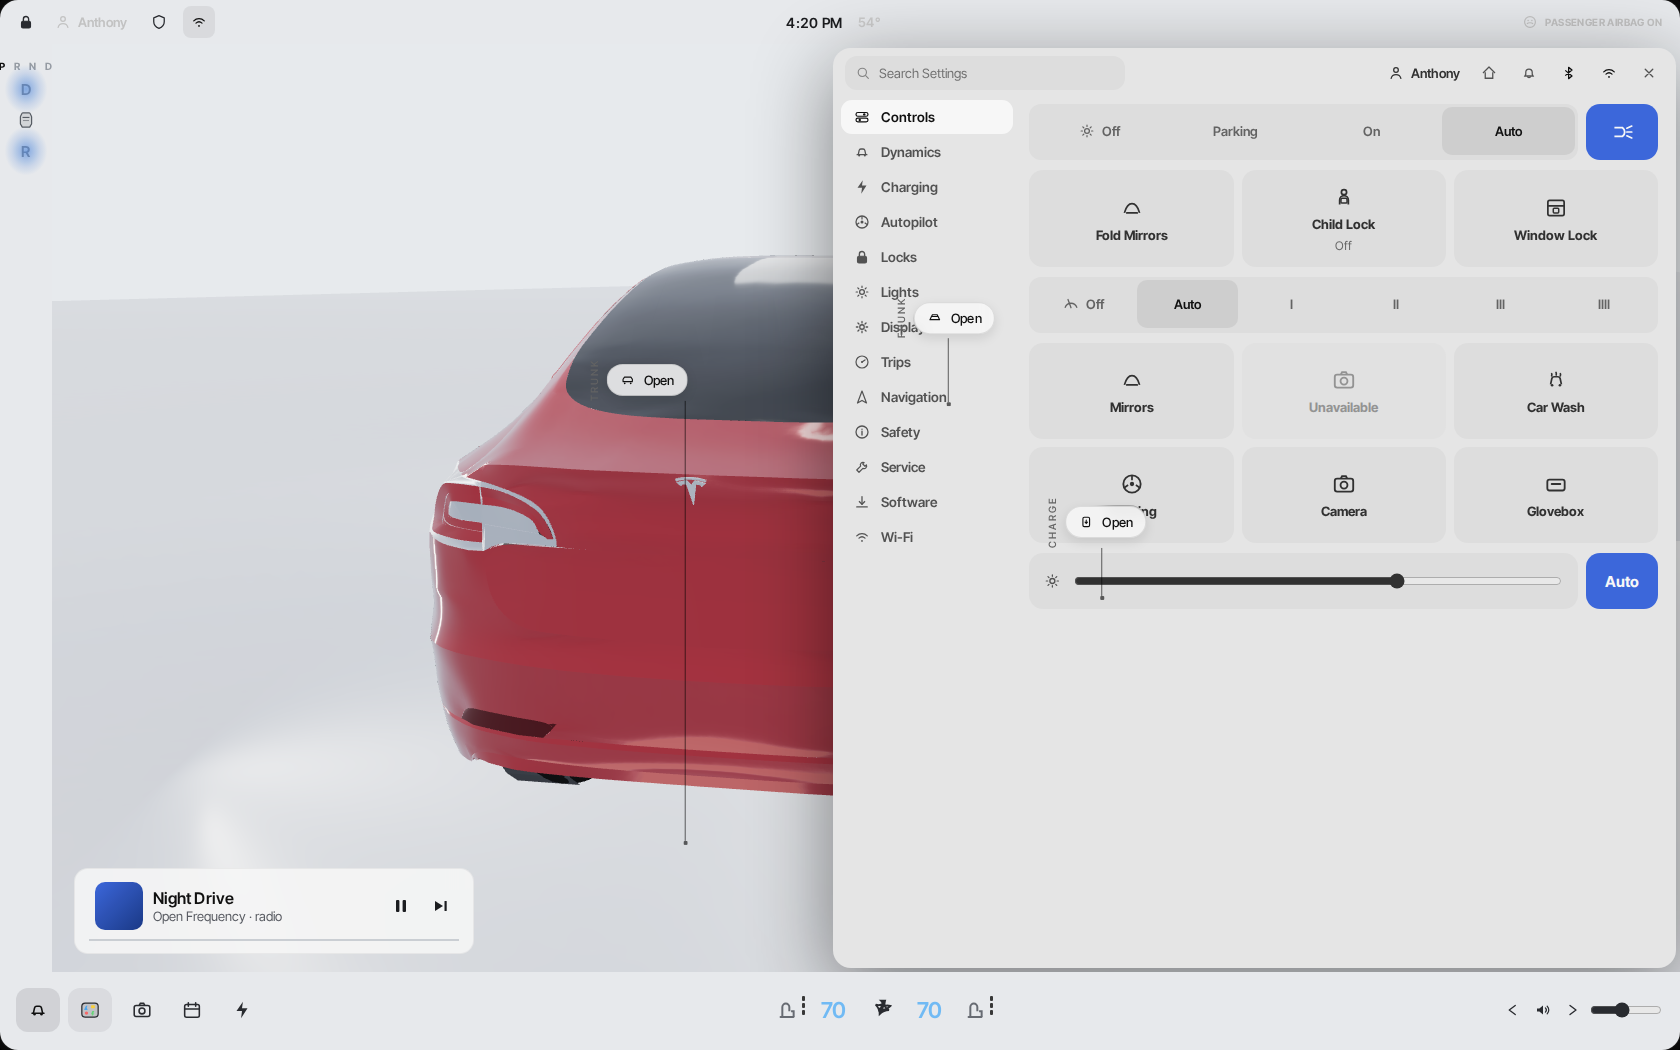
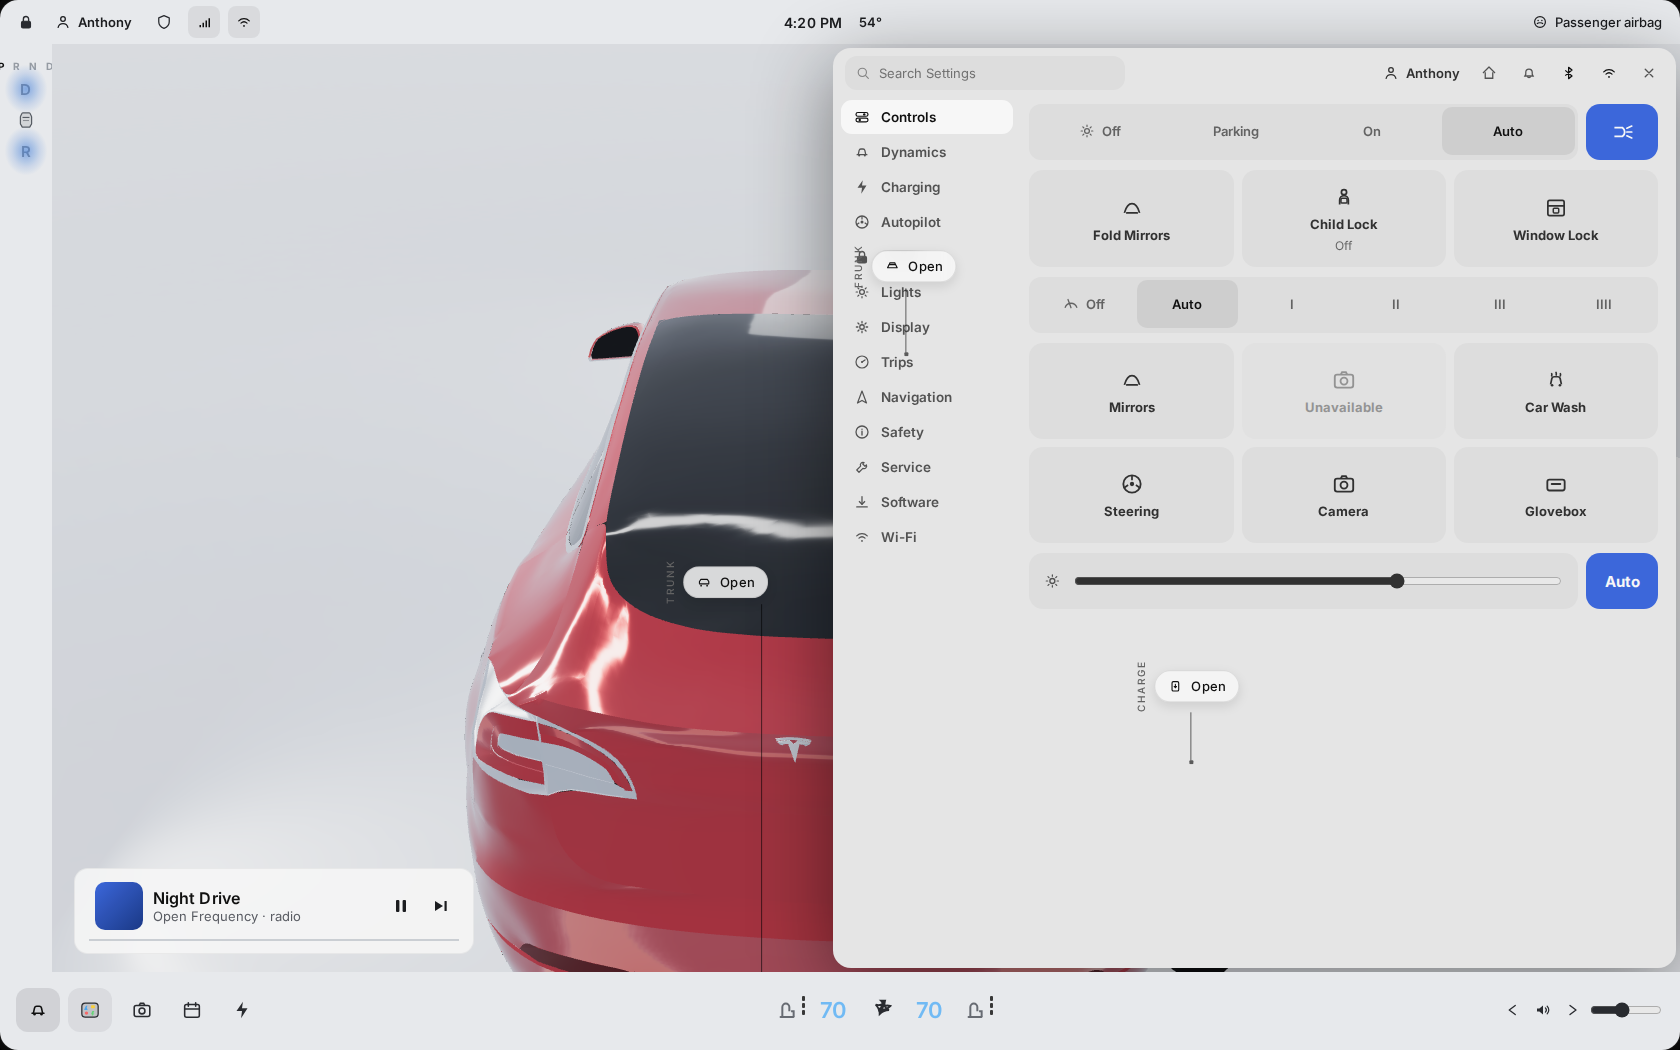
Match the on-screen words and cameras to the public stills.
The speed line says mph, the player shows elapsed and remaining time, the status bar includes cellular, and the chase and park cameras sit where those stills do.

diff --git a/src/styles/app.css b/src/styles/app.css
@@ -22,7 +22,7 @@
   --dock-h: 68px;
   --prnd-w: 48px;
   --radius: 16px;
-  --font: "Inter Tight", Inter, "Segoe UI", system-ui, sans-serif;
+  --font: Inter, "Segoe UI", system-ui, sans-serif;
   --font-ui: var(--font);
   --viz-ratio: 0.42;
   --fs-status: 13px;
@@ -205,6 +205,13 @@ button {
 
 .bezel.parked .status-left {
   gap: 8px;
+}
+
+.bezel.parked .status-profile,
+.bezel.parked .status-time,
+.bezel.parked .status-weather,
+.bezel.parked .status-airbag {
+  color: #1c1d20;
 }
 
 .bezel.parked .drive-strip {
@@ -447,11 +454,10 @@ button {
   display: flex;
   align-items: center;
   gap: 6px;
-  color: #c8c8c8;
-  font-size: 10px;
-  font-weight: 700;
-  letter-spacing: 0.04em;
-  text-transform: uppercase;
+  color: #d8d8d8;
+  font-size: 13px;
+  font-weight: 500;
+  letter-spacing: 0;
 }
 
 .status-airbag svg {
@@ -1675,17 +1681,17 @@ button {
 
 .hud-cluster {
   position: absolute;
-  left: 18px;
-  top: 12%;
+  left: 14px;
+  top: 18%;
   display: flex;
   align-items: center;
-  gap: 8px;
+  gap: 10px;
 }
 
 .power-meter {
   position: relative;
   width: 3px;
-  height: 108px;
+  height: 128px;
   border-radius: 99px;
   background: rgba(255, 255, 255, 0.22);
   overflow: hidden;
@@ -1726,20 +1732,20 @@ button {
 }
 
 .hud-speed .mph {
-  font-size: 92px;
+  font-size: 118px;
   font-weight: 500;
-  line-height: 0.8;
-  letter-spacing: -0.055em;
+  line-height: 0.78;
+  letter-spacing: -0.04em;
   font-variant-numeric: tabular-nums;
-  text-shadow: 0 2px 16px rgba(0, 0, 0, 0.35);
+  text-shadow: 0 2px 16px rgba(0, 0, 0, 0.28);
 }
 
 .hud-speed .label {
-  margin-top: 6px;
-  font-size: 15px;
-  color: #8eb6ff;
-  font-weight: 650;
-  letter-spacing: -0.01em;
+  margin-top: 2px;
+  font-size: 20px;
+  color: #f4f4f4;
+  font-weight: 500;
+  letter-spacing: 0;
 }
 
 .hud-speed .muted {
@@ -1967,11 +1973,24 @@ button {
   color: #8eb6ff;
 }
 
+.drive-media-times {
+  display: grid;
+  grid-template-columns: 36px 1fr 44px;
+  align-items: center;
+  gap: 10px;
+  margin-top: 2px;
+  color: #f2f2f2;
+  font-size: 13px;
+  font-weight: 500;
+  font-variant-numeric: tabular-nums;
+}
+
+.drive-media-times span:last-child {
+  text-align: right;
+}
+
 .drive-media-progress {
-  position: absolute;
-  left: 18px;
-  right: 18px;
-  bottom: 10px;
+  position: relative;
   height: 6px;
   border-radius: 99px;
   background: rgba(255, 255, 255, 0.28);

diff --git a/src/chrome/DriveOverlay.tsx b/src/chrome/DriveOverlay.tsx
@@ -15,6 +15,15 @@ import {
 } from "./Icons";
 import type { Maneuver } from "../state/types";
 
+const TRACK_SECONDS = 214;
+
+function formatClock(seconds: number): string {
+  const s = Math.max(0, Math.round(seconds));
+  const m = Math.floor(s / 60);
+  const r = s % 60;
+  return `${m}:${r.toString().padStart(2, "0")}`;
+}
+
 function TurnGlyph({ m }: { m: Maneuver }) {
   if (m.type === "arrive") return <IconArrive width={22} height={22} />;
   const mod = m.modifier ?? "";
@@ -118,8 +127,12 @@ export function DriveOverlay({ expanded }: { expanded: boolean }) {
               <IconRepeat width={20} height={20} />
             </button>
           </div>
-          <div className="drive-media-progress" aria-hidden="true">
-            <i style={{ width: `${Math.round(media.progress * 100)}%` }} />
+          <div className="drive-media-times">
+            <span>{formatClock(media.progress * TRACK_SECONDS)}</span>
+            <div className="drive-media-progress" aria-hidden="true">
+              <i style={{ width: `${Math.round(media.progress * 100)}%` }} />
+            </div>
+            <span>−{formatClock(TRACK_SECONDS - media.progress * TRACK_SECONDS)}</span>
           </div>
         </div>
       )}

diff --git a/src/chrome/StatusBar.tsx b/src/chrome/StatusBar.tsx
@@ -1,6 +1,6 @@
 import { useEffect, useState } from "react";
 import { useVehicle } from "../state/store";
-import { IconAirbag, IconLock, IconPerson, IconShield, IconUnlock, IconWifi } from "./Icons";
+import { IconAirbag, IconCell, IconLock, IconPerson, IconShield, IconUnlock, IconWifi } from "./Icons";
 
 function useClock(format24: boolean): string {
   const [now, setNow] = useState(() => new Date());
@@ -63,6 +63,13 @@ export function StatusBar() {
           <IconShield />
         </button>
         <button
+          className={`status-icon ${flags.cellular ? "active" : "dim"}`}
+          title="Cellular"
+          onClick={() => patchFlags({ cellular: !flags.cellular })}
+        >
+          <IconCell />
+        </button>
+        <button
           className={`status-icon ${flags.wifi ? "active" : "dim"}`}
           title="Wi-Fi"
           onClick={() => patchFlags({ wifi: !flags.wifi })}
@@ -79,7 +86,7 @@ export function StatusBar() {
       <div className="status-right">
         <span className="status-airbag" title="Passenger airbag on">
           <IconAirbag />
-          <span>Passenger airbag on</span>
+          <span>Passenger airbag</span>
         </span>
       </div>
     </header>

diff --git a/src/viz/FsdCanvas.tsx b/src/viz/FsdCanvas.tsx
@@ -28,9 +28,9 @@ RectAreaLightUniformsLib.init();
 /** Flat FSD grade. The road, lanes, and blocks are unlit so they stay in this gray. */
 const WORLD = "#97a0a8";
 const VERGE = "#667068";
-const DRIVE_FOV = 36;
-const CAM_POS = new Vector3(0, 3.55, -7.6);
-const CAM_LOOK = new Vector3(0, 0.28, 24);
+const DRIVE_FOV = 32;
+const CAM_POS = new Vector3(0, 2.15, -5.35);
+const CAM_LOOK = new Vector3(0, 0.85, 16);
 
 function studioFloorMap(): CanvasTexture {
   const c = document.createElement("canvas");
@@ -298,8 +298,6 @@ function VizHud() {
 
   const up = Math.max(0, norm);
   const down = Math.max(0, -norm);
-  const status = phase === "fsd" ? "Self-Driving" : phase === "disengaged" ? "Disengaged" : "mph";
-
   return (
     <div className="hud">
       <div className="hud-cluster">
@@ -310,7 +308,7 @@ function VizHud() {
         </div>
         <div className="hud-speed" aria-label={`${Math.round(pose.speedMph)} miles per hour`}>
           <div className="mph">{Math.round(pose.speedMph)}</div>
-          <div className={phase === "fsd" ? "label" : "label muted"}>{status}</div>
+          <div className="label">mph</div>
         </div>
       </div>
       <div className="road-badges">

diff --git a/src/viz/parkedStudio.ts b/src/viz/parkedStudio.ts
@@ -17,20 +17,20 @@ export const PARKED_STUDIO = {
   envMapSize: 1024,
   envIntensity: 1.38,
   camera: {
-    fov: 28,
-    position: [2.45, 2.05, -6.7] as const,
-    target: [0, 0.62, 0.15] as const,
+    fov: 26,
+    position: [1.9, 3.35, -6.15] as const,
+    target: [0, 0.72, 0.1] as const,
     near: 0.1,
     far: 80,
-    minDistance: 5.5,
+    minDistance: 5.2,
     maxDistance: 14,
-    minPolar: 0.85,
-    maxPolar: 1.5,
+    minPolar: 0.7,
+    maxPolar: 1.4,
   },
   car: {
     position: [0, 0, 0] as const,
-    rotationY: -0.55,
-    scale: 1.08,
+    rotationY: -0.38,
+    scale: 1.05,
   },
   shadow: {
     opacity: 0.92,

diff --git a/tests/visual/qa.spec.ts b/tests/visual/qa.spec.ts
@@ -80,7 +80,7 @@ test.describe("visual QA harness", () => {
   test("captures FSD engaged", async ({ page }) => {
     await capture(page, "fsd-engaged");
     await expect(page.getByRole("button", { name: "End Self-Driving" }).first()).toBeVisible();
-    await expect(page.locator(".hud-speed .label")).toContainText("Self-Driving");
+    await expect(page.locator(".hud-speed .label")).toHaveText("mph");
   });
 
   test("captures Controls open", async ({ page }) => {

diff --git a/docs/qa/CHECKLIST.md b/docs/qa/CHECKLIST.md
@@ -19,9 +19,9 @@ Baseline captured from this harness on 2026-09-16 (`docs/qa/screenshots/*.png`).
 
 | Scene | Latest still | vs reference | Status | Notes (update me) |
 | --- | --- | --- | --- | --- |
-| Parked home | `screenshots/parked-home.png` | `manual-m3-touchscreen-p8.jpg`, `nata-parked-car-vis.jpg` | PARTIAL | Rear three-quarter on a light floor, whole car in frame, light dock, folder All Apps, TRUNK card. Mesh ceiling remains (front well, side glass). |
+| Parked home | `screenshots/parked-home.png` | `manual-m3-touchscreen-p8.jpg`, `nata-parked-car-vis.jpg`, `nata-status-bar.jpg` | PARTIAL | Higher rear three-quarter, whole car in frame, light dock. Status order: lock, profile, Sentry, cellular, Wi-Fi, time, outdoor temp, “Passenger airbag”. Mesh ceiling remains. |
 | Route set | `screenshots/route-set.png` | `manual-m3-maps-nav-p170.jpg`, `nata-trip-progress.jpg` | PARTIAL | Turn list + Start FSD sit on the parked fullscreen (map snippet TR). Trip progress track is on the card; at the origin it is empty because nothing has been driven. Gray traveled path appears once the car moves (see FSD still). No traffic coloring, no energy-to-destination. |
-| FSD engaged | `screenshots/fsd-engaged.png` | `nata-ui-v12-hero.jpg`, `nata-intel-spring-update.jpg` (`manual-m3-driving-status-p16.jpg` is Car Status p.14, not a driving viz) | PARTIAL | Unlit gray street: buildings, mid-gray asphalt, white lane lines, blue ego lane, amber lamps, speed and hairline power bar, translucent media player (title left, art right). Nav map is charcoal with the street grid showing. Still the CC-BY car, not Tesla’s viz mesh. |
+| FSD engaged | `screenshots/fsd-engaged.png` | `nata-ui-v12-hero.jpg`, `nata-intel-spring-update.jpg`, `nata-regen-speedometer.jpg` (`manual-m3-driving-status-p16.jpg` is Car Status p.14, not a driving viz) | PARTIAL | Low rear chase. Speed reads the number plus **mph** (not a mode name), hairline power bar on the left. Media card: title left, art right, `m:ss` and `−m:ss` on the scrubber. Gray street, blue lane, charcoal map with streets. Still the CC-BY car. |
 | Controls open | `screenshots/controls.png` | `nata-quick-controls.jpg`, `nata-controls-search.jpg` | PARTIAL | Search Settings at top. Left rail: Controls / Dynamics / Charging / Autopilot / Locks / Lights / Display / Trips / Navigation / Safety / Service / Software / Wi-Fi. Quick Controls: lights Off–Auto + Auto High Beam, Fold Mirrors / Child Lock / Window Lock, wipers Off–IIII, Mirrors / Unavailable / Car Wash, Steering / Camera / Glovebox, brightness + Auto. Overlay sits on the **map** (viz stays). Remaining: not pixel-identical icons/type. |
 | Climate open | `screenshots/climate.png` | `manual-m3-climate-popup-p160.jpg` | PARTIAL | Compact dock popup: main climate, seat heat, front/rear defrost, temp slider, Split. Not the full main climate screen (vent targets / Dog / Camp). |
 | Media open | `screenshots/media.png` | `nata-media-player-full.jpg` | PARTIAL | Translucent on-viz player: large title left, art right, centered transport, thick white scrubber with thumb, shuffle/repeat/search/EQ, source grid. Minimized strip spans the viz. Stub sources (no licensed streaming apps). |

diff --git a/docs/FIDELITY.md b/docs/FIDELITY.md
@@ -62,7 +62,7 @@ Target is the center display in customer cars on software **2026.14** (Highland 
 - Parked home is a **rear three-quarter** of the Model 3 on a light floor, whole car in frame, CC-BY mesh (~94k faces), candy Ultra Red, light dock, TRUNK card. Score: **PARTIAL** vs `nata-parked-car-vis.jpg`. Front well cutout and side-glass openings remain. See `docs/qa/MESH_REVIEW.md`.
 - Type is Inter (OFL). Still not Tesla Sans. Score: **PARTIAL**.
 - Park status-bar order and parked Auto Shift remain **PARTIAL**. All Apps is a folder of four glyphs.
-- FSD viz shares the map pose. The driving frame is an unlit gray street: building masses, mid-gray asphalt, white lane lines, a blue ego lane, traffic with amber lamps, speed and a hairline power bar, and a translucent media player (title left, art right) on the viz. The nav map is charcoal with the street grid visible. Not an occupancy mesh.
+- FSD viz shares the map pose. The driving frame is a low rear chase down a gray street: building masses, mid-gray asphalt, white lane lines, a blue ego lane, traffic with amber lamps. The speed readout says the number and **mph**, with a hairline power bar on its left. The on-viz player shows title left, art right, and elapsed / remaining time on the scrubber. The nav map is charcoal with the street grid visible. Not an occupancy mesh.
 - Media player puts the title left and art right, with a thick scrubber. Dock climate and Controls are still not pixel matches.
 
 The harness exists so those gaps are **measurable**. Update [`qa/CHECKLIST.md`](qa/CHECKLIST.md) on every visual PR.
